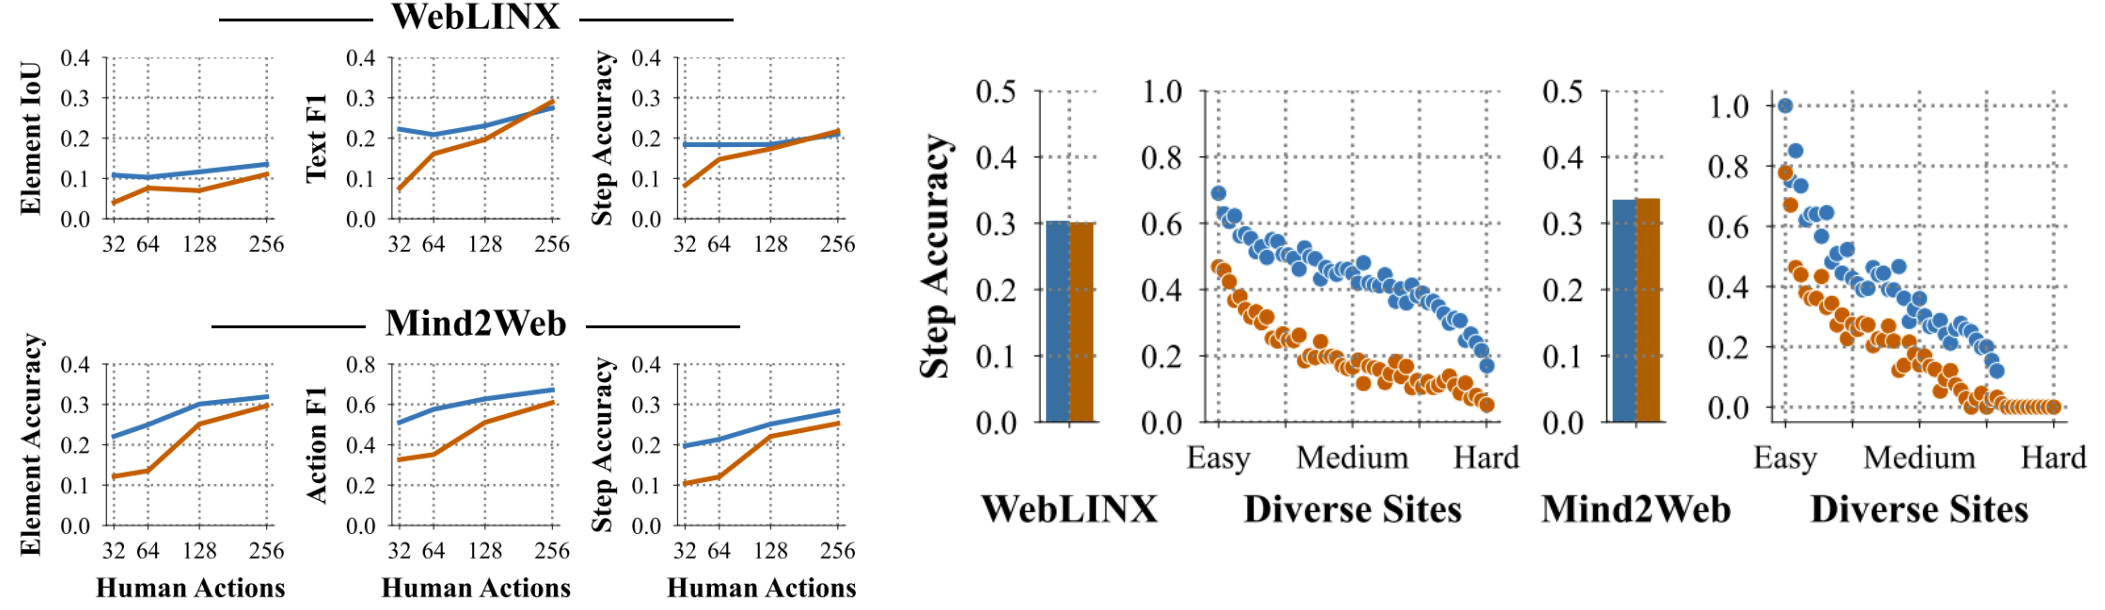
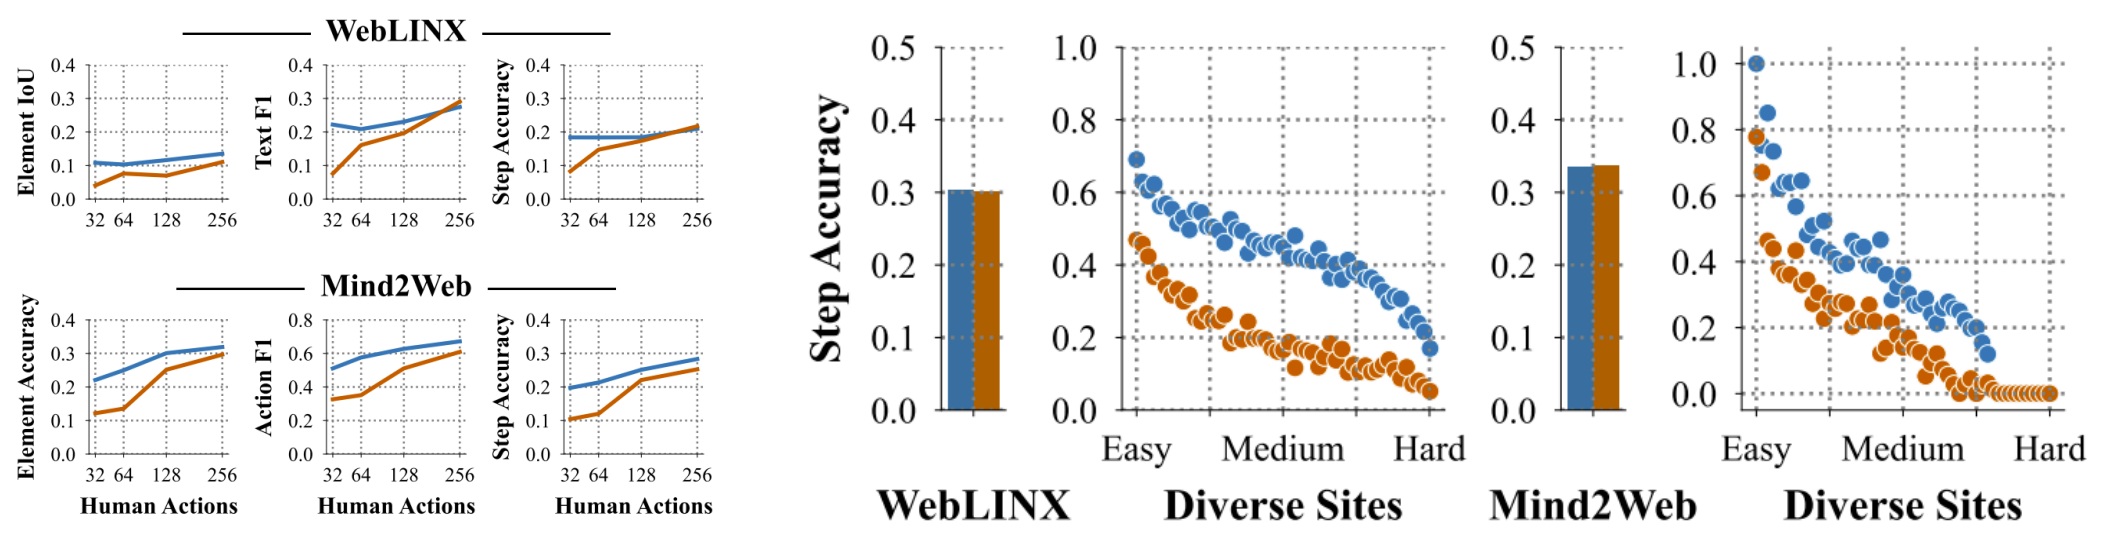
rescale plots

diff --git a/index.html b/index.html
@@ -190,7 +190,7 @@
       <div class="container is-max-desktop content">
         <img src="static/images/training-results.png" alt="Section 6 - Training Agents" class="image">
         <br>
-        <p><strong>Training agents with internet-scale data.</strong> &nbsp;&nbsp; In data-limited settings derived from Mind2Web and WebLINX, we improve Step Accuracy by up to +89.5% and +122.1% respectively for agents trained on mixtures of data from our pipeline, and human data. When training agents with all available human data from these benchmarks, agents trained on existing human data struggle to generalize to diverse real sites, and adding our data improves their generalization by +149.0% for WebLINX and +156.3% for Mind2Web.</p>
+        <p><strong>Training agents with internet-scale data.</strong> &nbsp;&nbsp; In data-limited settings derived from Mind2Web and WebLINX (<i>left plot</i>), we improve Step Accuracy by up to +89.5% and +122.1% respectively for agents trained on mixtures of data from our pipeline, and human data. When training agents with all available human data from these benchmarks (<i>right plot</i>), agents trained on existing human data struggle to generalize to diverse real sites, and adding our data improves their generalization by +149.0% for WebLINX and +156.3% for Mind2Web.</p>
         <p class="non-anonymous">Code for training is available at: <a href="https://github.com/data-for-agents/training" style="color: darkblue">github.com/data-for-agents/training</a></p>
       </div>
     </div>
